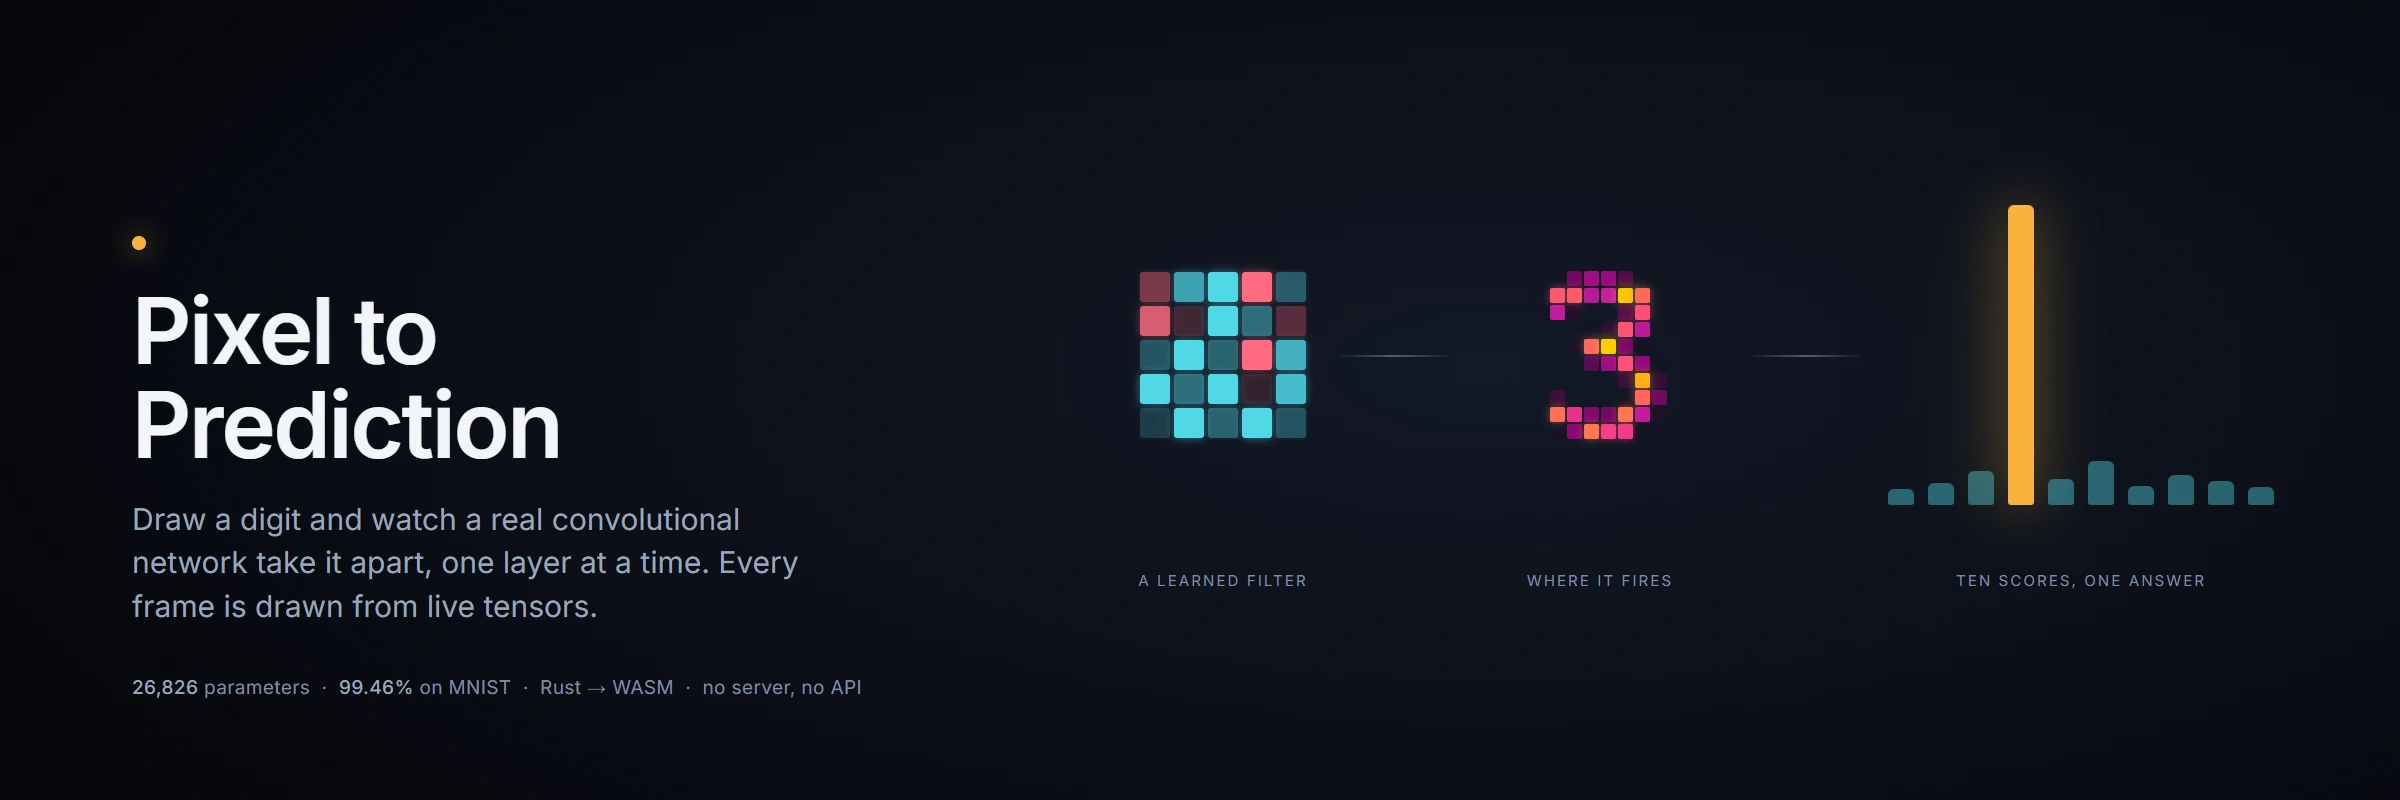
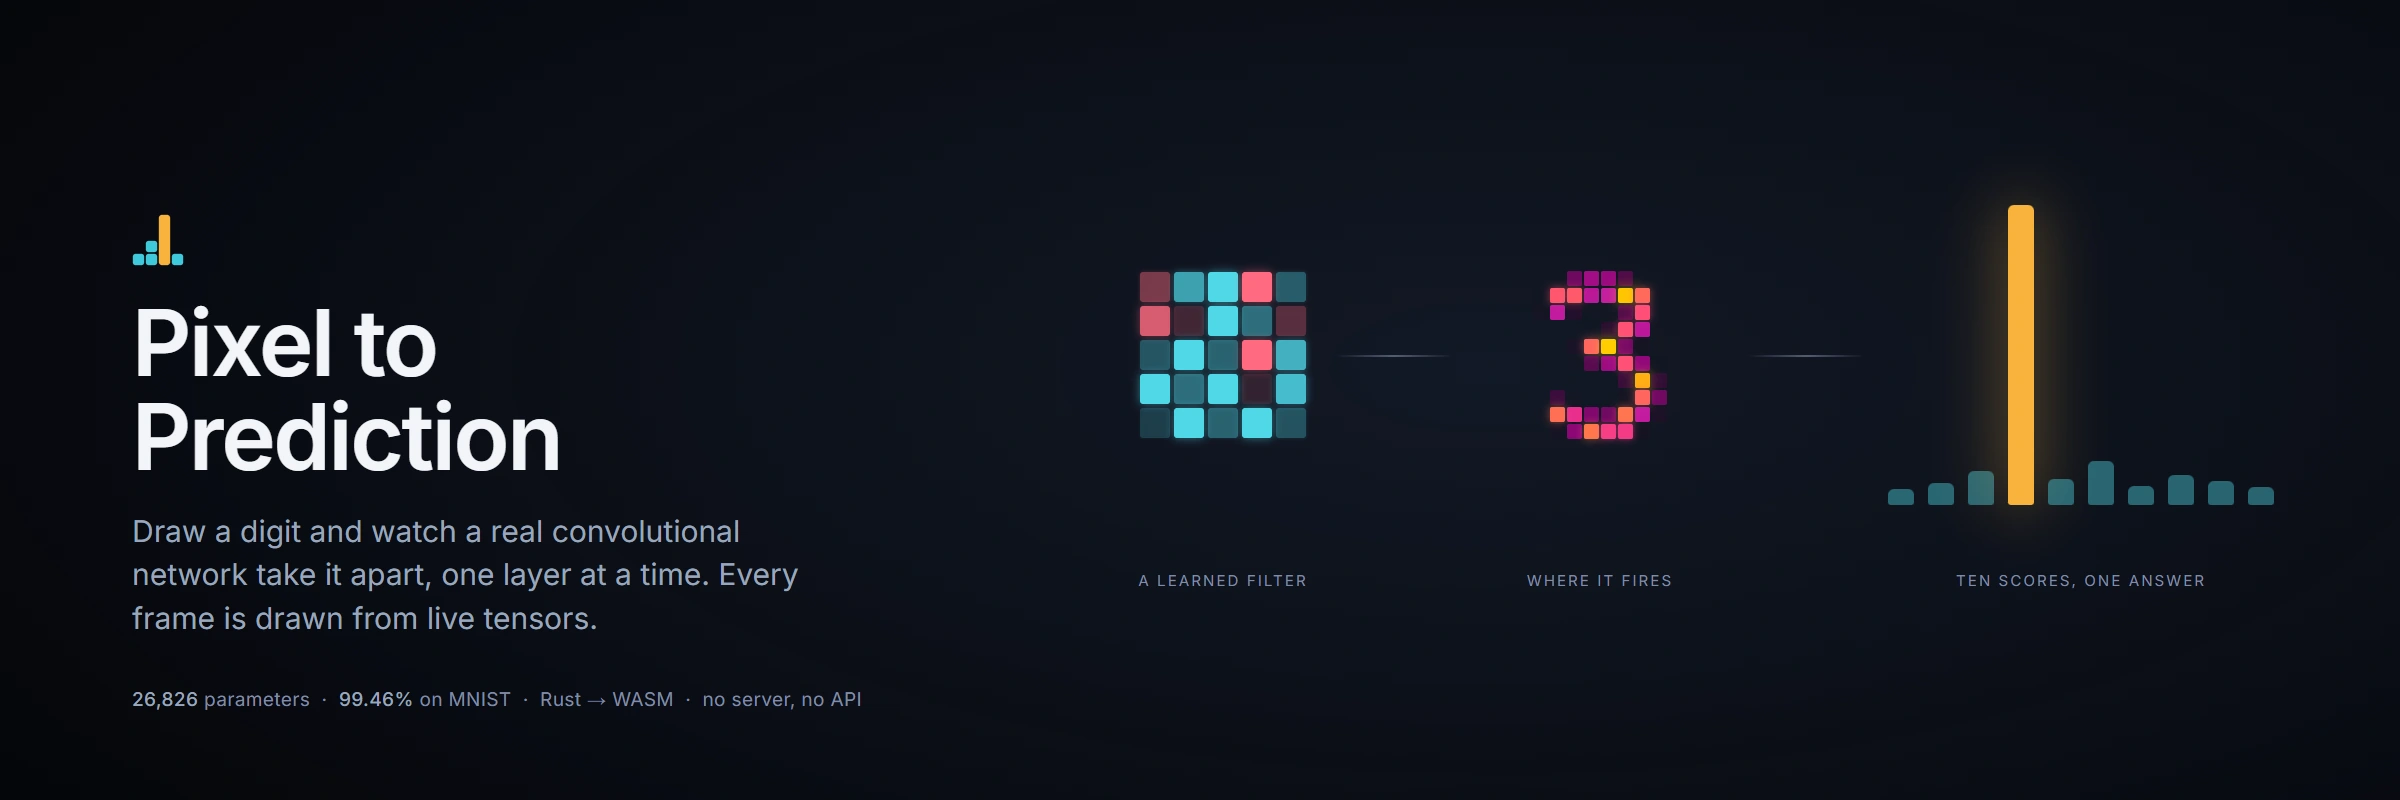
feat(brand): a mark, and a README that carries it
The mark is the product name read literally, and it is two pictures at
once: four columns of pixels, and a bar chart with one decisive winner. The
losers stay as separate squares because they are still unresolved; the
winner is a single continuous bar because it is not, which is exactly what
the network does to a drawing. No text, no gradients, no filters, so the
same file works as a favicon, a GitHub avatar, an apple-touch-icon and a
mask-icon, and survives a sanitiser that strips everything interesting.

It replaces the amber dot in the topbar, the generic circle favicon, and
the loose dot on the hero banner, so the app, the tab, the banner and the
README are finally the same object.

The banner also picks up the real digit rasteriser, so the "where it fires"
panel is a recognisable 3 rather than an arc that read as noise.

diff --git a/.github/assets/sources/hero.html b/.github/assets/sources/hero.html
@@ -42,12 +42,9 @@
           #05060a;
       }
 
-      .copy { position: absolute; left: 132px; top: 236px; width: 820px; }
-      .dot {
-        width: 14px; height: 14px; border-radius: 50%;
-        background: var(--accent); box-shadow: 0 0 26px rgba(248, 179, 60, 0.7);
-        margin-bottom: 34px;
-      }
+      .copy { position: absolute; left: 132px; top: 214px; width: 820px; }
+      /* The mark, inline so the banner needs no external asset to render. */
+      .mark { display: block; margin-bottom: 30px; }
       h1 {
         font-size: 92px; font-weight: 600; letter-spacing: -0.025em;
         color: var(--text); line-height: 1.02;
@@ -114,7 +111,15 @@
       <div class="ground clip" data-start="0" data-duration="2" data-track-index="0"></div>
 
       <div class="copy clip" data-start="0" data-duration="2" data-track-index="1">
-        <div class="dot"></div>
+        <svg class="mark" width="52" height="52" viewBox="0 0 64 64" aria-hidden="true">
+          <g fill="#3EC9DA">
+            <rect x="1" y="49" width="14" height="14" rx="3.5" />
+            <rect x="17" y="49" width="14" height="14" rx="3.5" />
+            <rect x="17" y="33" width="14" height="14" rx="3.5" />
+            <rect x="49" y="49" width="14" height="14" rx="3.5" />
+          </g>
+          <rect x="33" y="1" width="14" height="62" rx="4" fill="#F8B33C" />
+        </svg>
         <h1>Pixel to<br />Prediction</h1>
         <p class="sub">
           Draw a digit and watch a real convolutional network take it apart, one layer at a

diff --git a/README.md b/README.md
@@ -1,8 +1,12 @@
 <div align="center">
 
-![Pixel to Prediction](.github/assets/hero.webp)
+<img src=".github/assets/logo.svg" width="72" height="72" alt="" />
+
+# Pixel to Prediction
 
 **Draw a digit. Watch a real convolutional network take it apart, one layer at a time.**
+
+![](.github/assets/hero.webp)
 
 [![tests](https://img.shields.io/badge/rust%20tests-45%20passing-4FD8E8?style=flat-square&labelColor=05060A)](#the-test-that-actually-matters)
 [![accuracy](https://img.shields.io/badge/MNIST-99.46%25-F8B33C?style=flat-square&labelColor=05060A)](#the-model)
@@ -251,6 +255,11 @@ MIT. See [LICENSE](LICENSE).
 MNIST is by Yann LeCun, Corinna Cortes and Christopher Burges. The trained weights in this
 repository are produced by `scripts/train.sh` and are reproducible from the seed recorded
 in `web/public/model/model.json`.
+
+The mark is four columns of pixels that are also a bar chart with one winner: the losers
+stay as separate squares because they are still unresolved, the winner is one continuous
+bar because it is not. It has no text and no filters, so it survives a favicon, an avatar,
+and a sanitiser. Source: [`logo.svg`](.github/assets/logo.svg).
 
 The banner, the architecture diagram and the share cards are built with
 [HyperFrames](https://hyperframes.heygen.com); their compositions are in
